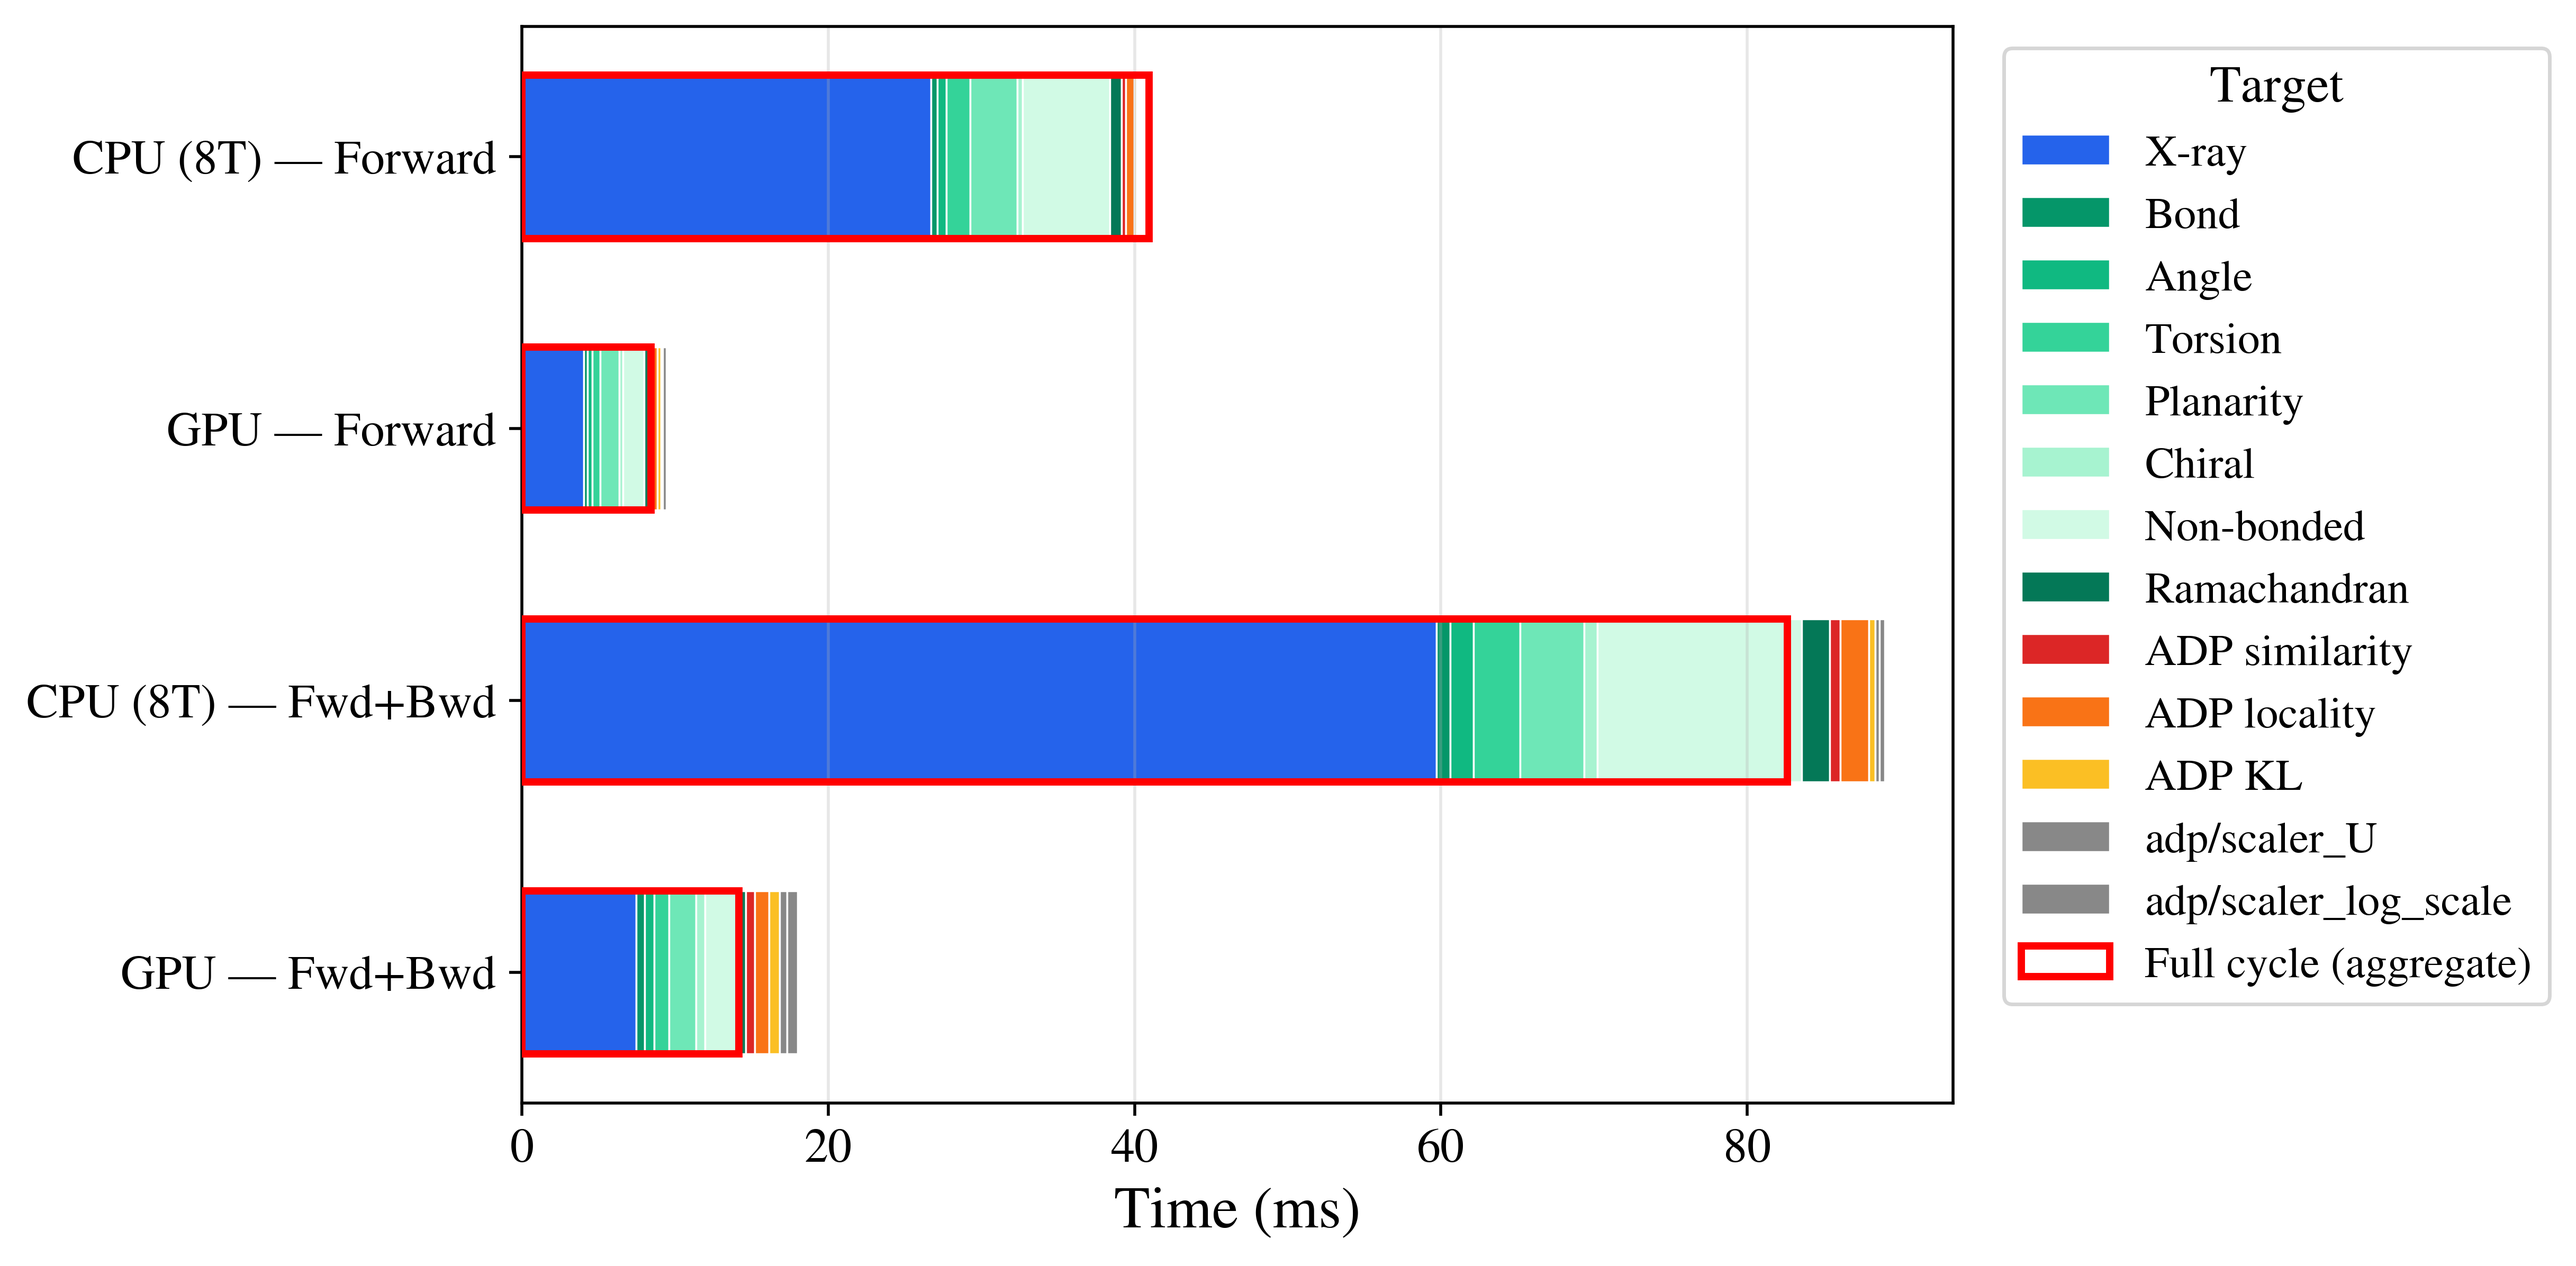
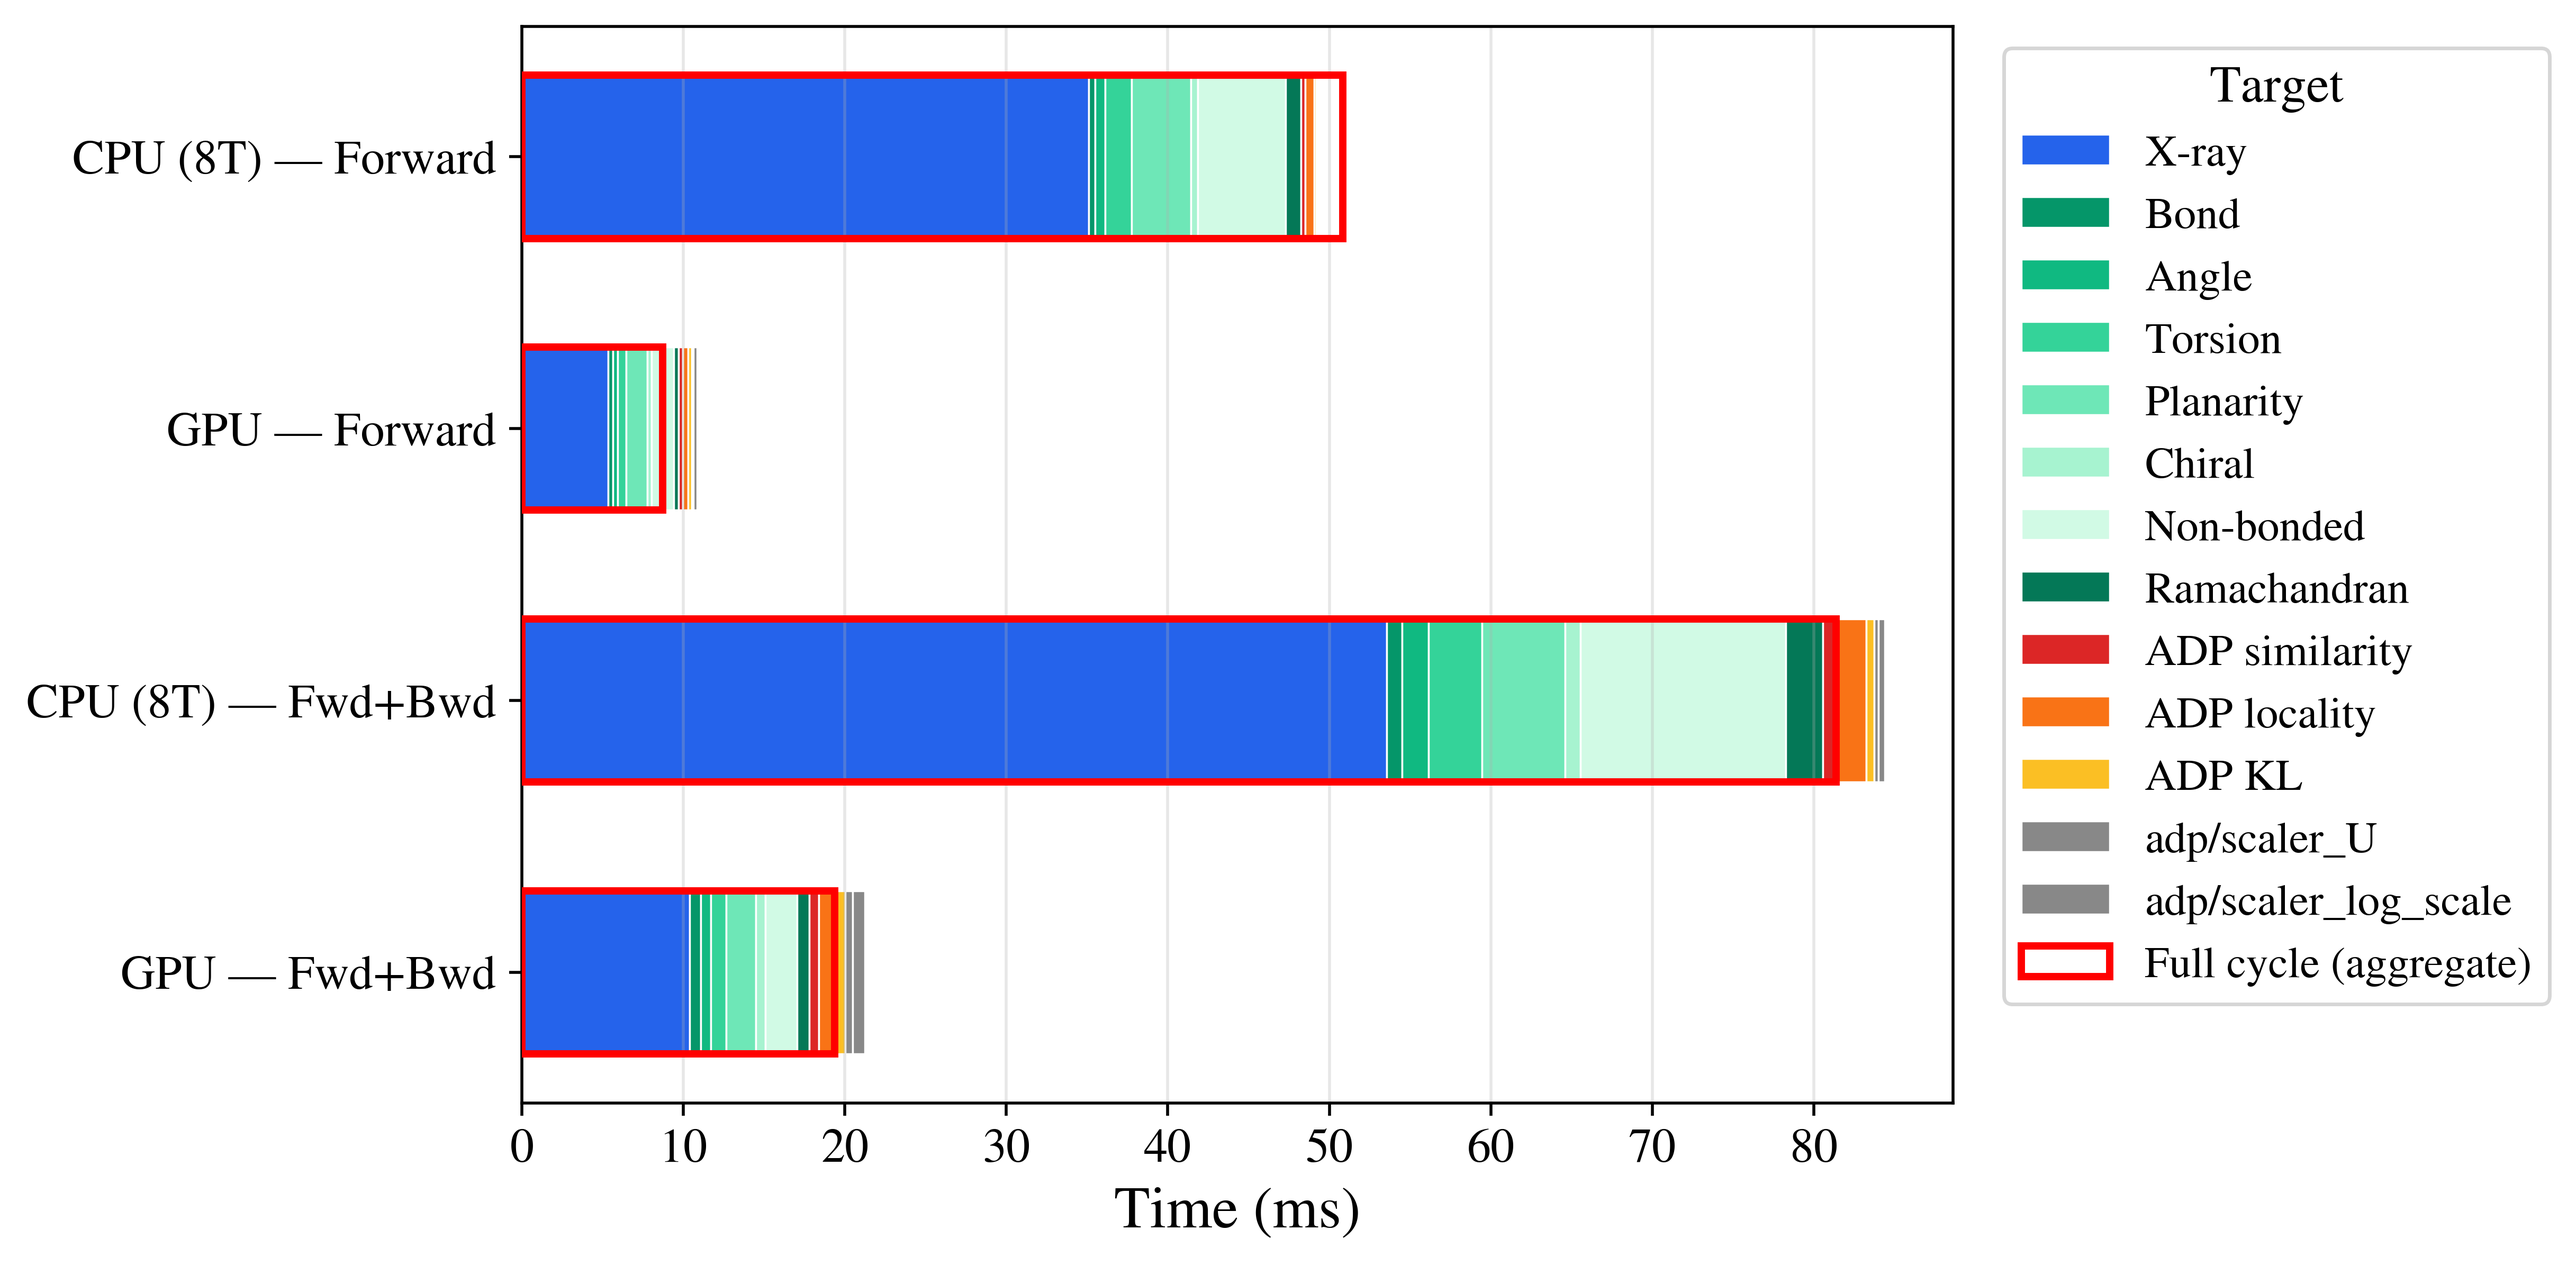
Removed outlier rejection and reran the fcalc benchmarks on consistent hardware

diff --git a/FIGURE_MEDIANS.md b/FIGURE_MEDIANS.md
@@ -70,13 +70,15 @@ Most failures trace to a **special-position pathology** in some placed AF models
 
 ## Figure 3 — F_calc GPU kernel speedup over cctbx
 
-Forward structure-factor calculation, TorchRef GPU (NVIDIA A100-PCIE-40GB) vs cctbx on CPU, over 10 structures. Speedup = cctbx time / TorchRef GPU time (fastest cctbx observed per structure). cctbx has no autodiff, so only the forward pass is compared.
+Forward structure-factor calculation, TorchRef GPU (NVIDIA A100-PCIE-40GB) vs cctbx on **cpu_xeon6230R**, over 10 structures. Speedup = cctbx time / TorchRef GPU time, both best-of-10 (fastest cctbx observed per structure), matching what the panel plots. cctbx has no autodiff, so only the forward pass is compared. This covers all 10 structures; the panel omits 5BOV as a triclinic outlier, so its on-figure median is slightly higher.
+
+The reference CPU is stated because it sets this number: `cpu_xeon6230R` (Cascade Lake, Q1 2020) is contemporaneous with the A100 (mid-2020); a 2024 `cpu_epyc9335` runs the same unchanged cctbx code 1.95x faster and halves the ratio (median 59x on that CPU, against the table below). The generation-matched pair is quoted.
 
 | | speedup | structure |
 |---|---|---|
-| minimum | 27× | 3E98 |
-| maximum | 111× | 3K7M |
-| median | 58× | — |
+| minimum | 52× | 3E98 |
+| maximum | 178× | 2DQ6 |
+| median | 121× | — |
 
 ## Extended Figure 2 — R-factor gap (TorchRef − reference, PHENIX-scored)
 
